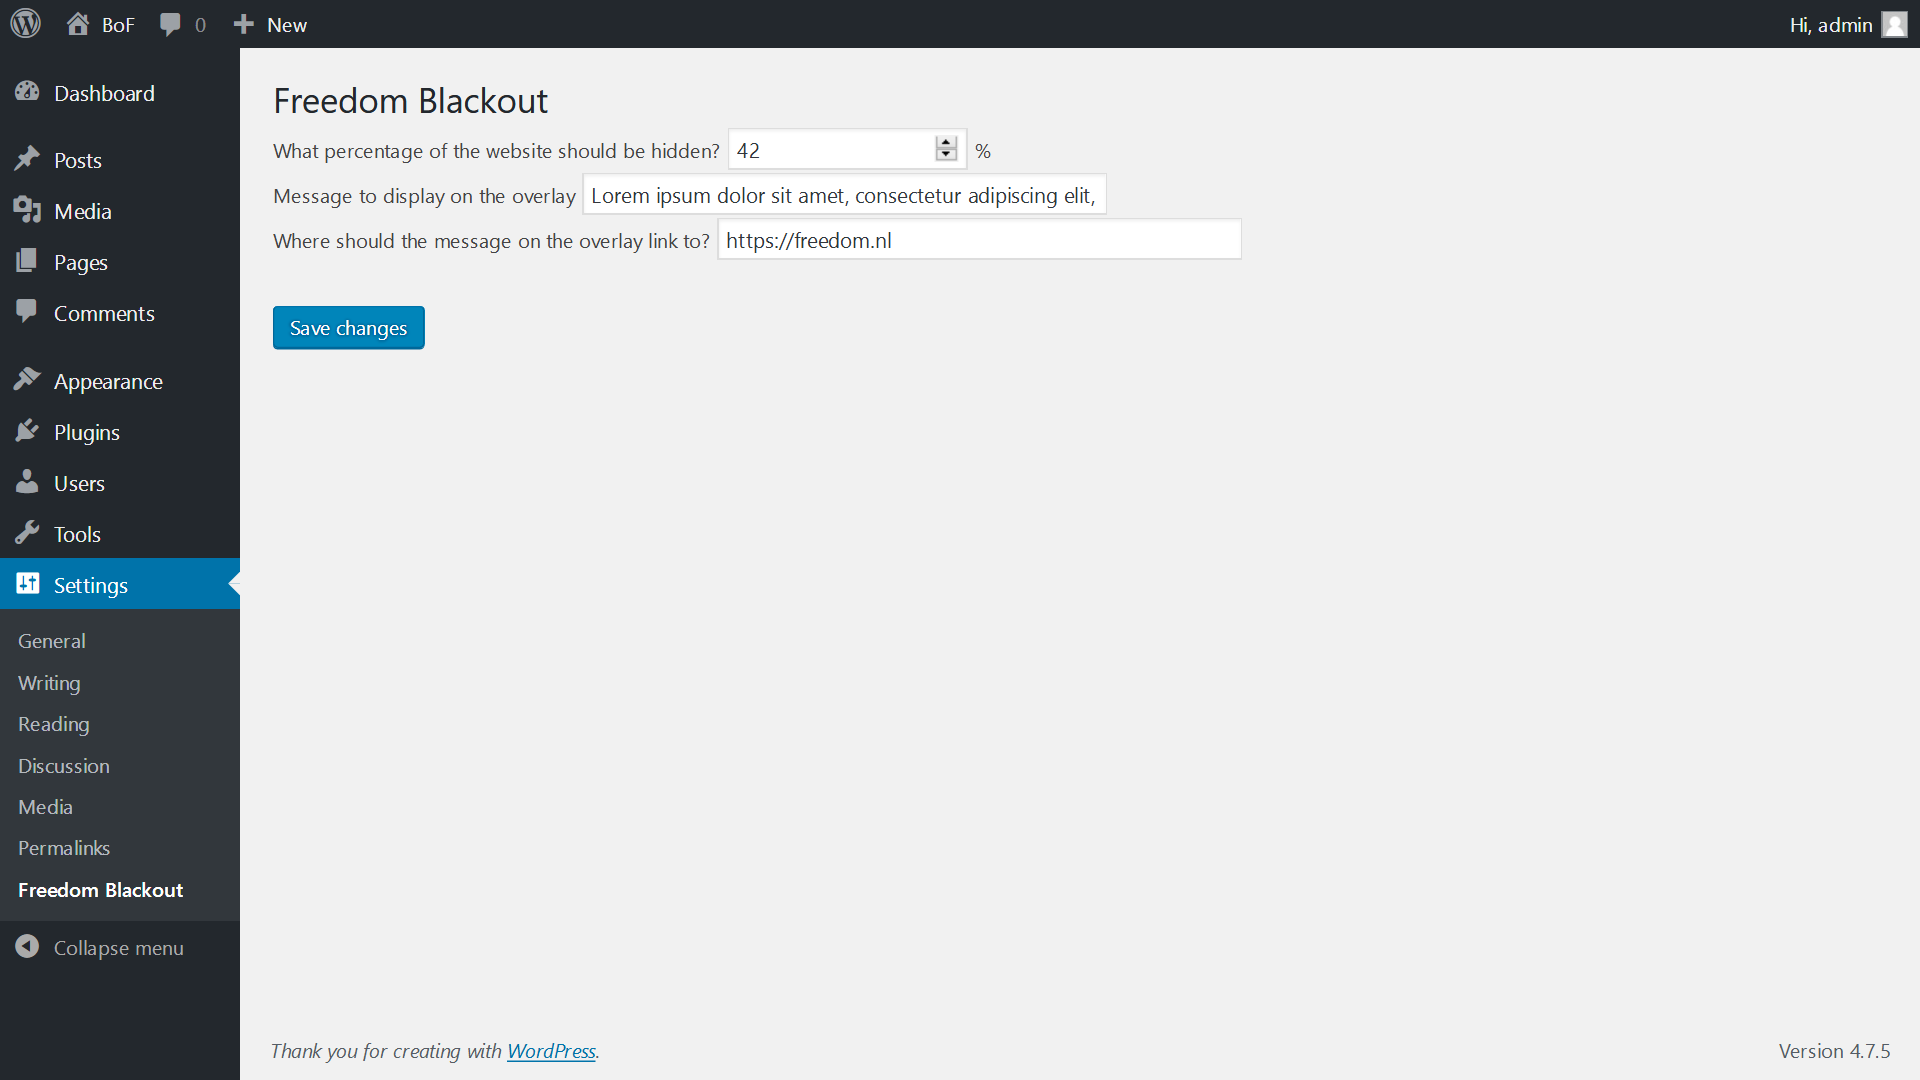
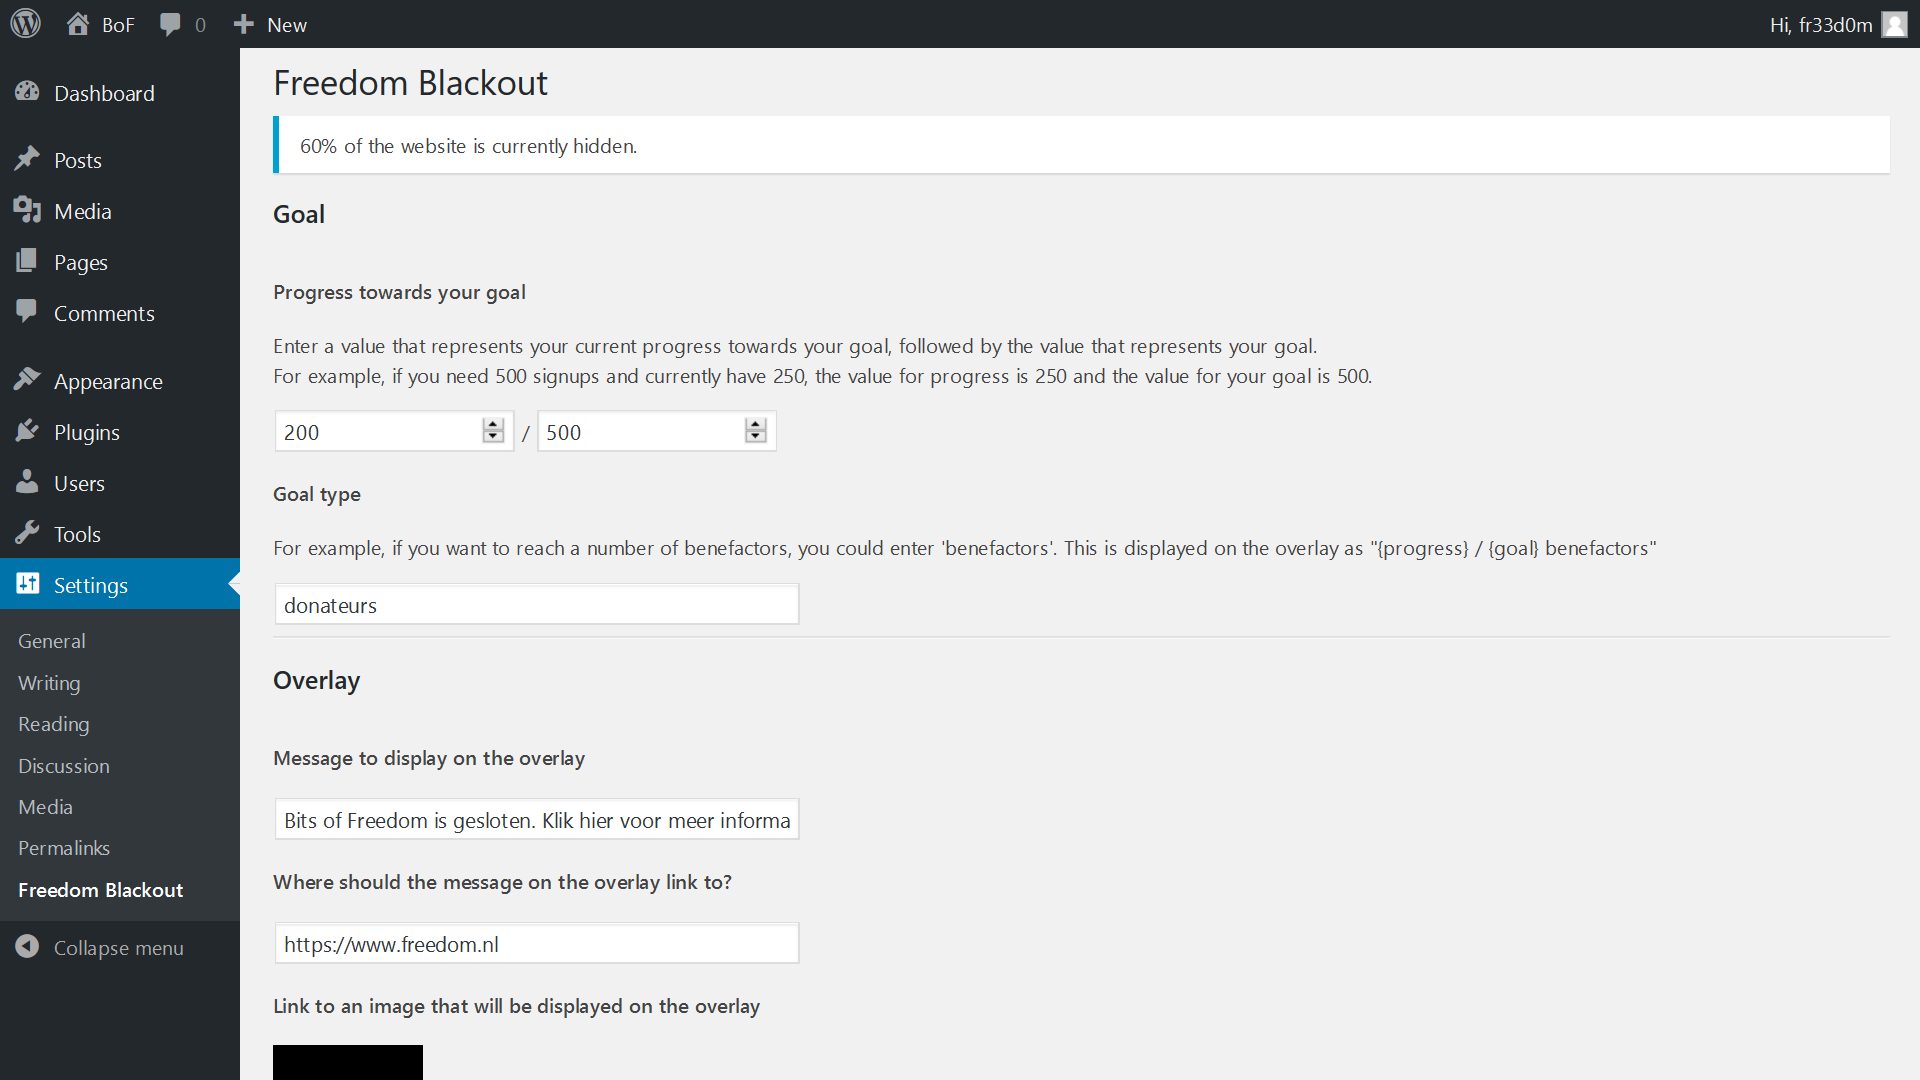
Updated README and screenshots

diff --git a/README.md b/README.md
@@ -1,0 +1,64 @@
+# Freedom Blackout
+License: [GPLv3](https://www.gnu.org/licenses/gpl-3.0.txt)  
+
+Plugin that (partially) hides your website depending on the progress towards a goal.
+
+### Description
+
+This plugin was created for a campaign of Bits of Freedom. The plugin adds a black overlay to the bottom of your website.
+The overlay can be customised by changing the values in the settings menu.
+
+### Installation
+
+This section describes how to install the plugin and get it working.
+
+1. Download the plugin and upload it to the `/wp-content/plugins/` directory
+1. Activate the plugin through the 'Plugins' menu in WordPress
+1. Change the settings in the 'Settings > Freedom Blackout' menu in WordPress  
+
+### Frequently Asked Questions
+
+**What can I use this plugin for?**
+
+Good question! This plugin was designed to fit a very specific usecase, namely to hide a website and make parts visible
+depending on how many new benefactors sign up. To accomplish this, the settings would be changed manually.
+
+You can use this plugin in the same way, or make changes to automate this process.
+
+**I just want to hide a certain amount of my website. Can I use this plugin for that?**
+
+You can! If you have a percentage, you can just enter 100 as the goal in the settings menu. You can enter how much % should be visible
+in the progress field. For example, if you want to hide 70% of your page, you enter 30 / 100.
+
+**Does this plugin affect the performance of my website in any way?**
+
+Freedom Blackout should not affect the performance in a significant way. The plugin loads no javascript files or stylesheets.
+The overlay is added by printing a div tag with some inline styles to the Wordpress page.
+
+### Screenshots
+
+<p align="center">
+  <img src="assets/screenshot-1.png" height="400" />
+</p>
+
+1. This is the settings menu. Here you can change how much of the website is hidden and edit the message that is displayed.
+
+<p align="center">
+  <img src="assets/screenshot-2.png" height="400" />
+</p>
+
+2. This is how the homepage looks with the plugin activated and the percentage set to 42%. 
+
+### Changelog
+
+**1.1**
+* Added more customisation.
+* Changed how cover percentage is calculated.
+
+**1.0**
+* Initial version of Freedom Blackout.
+
+### Upgrade Notice
+
+**1.0**  
+* First version.
